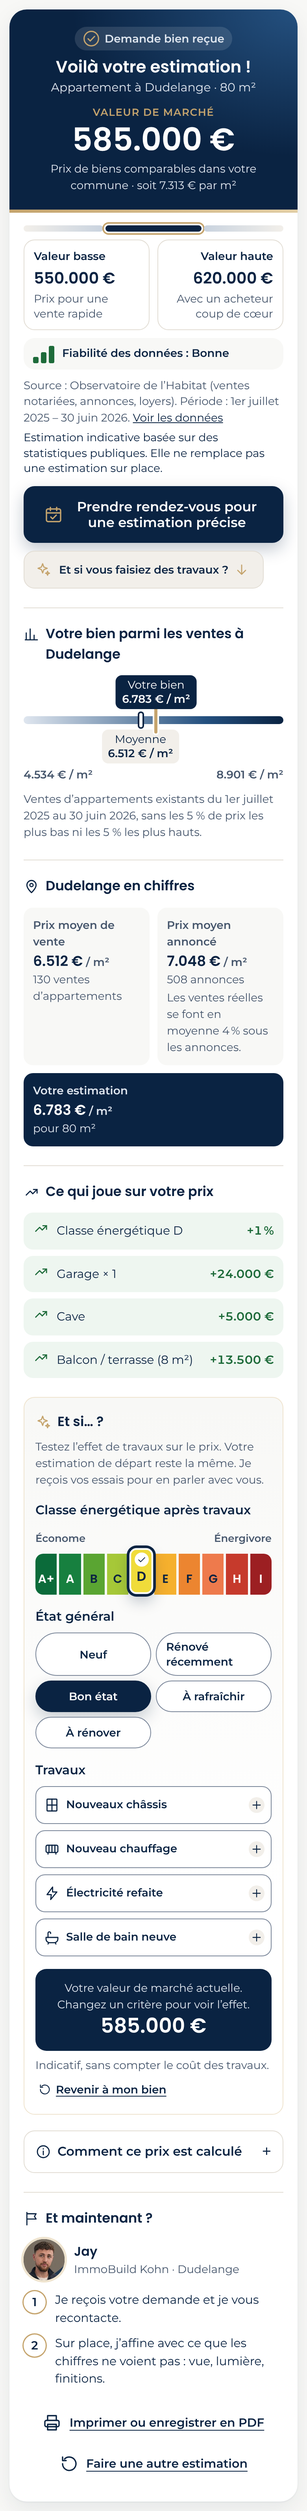
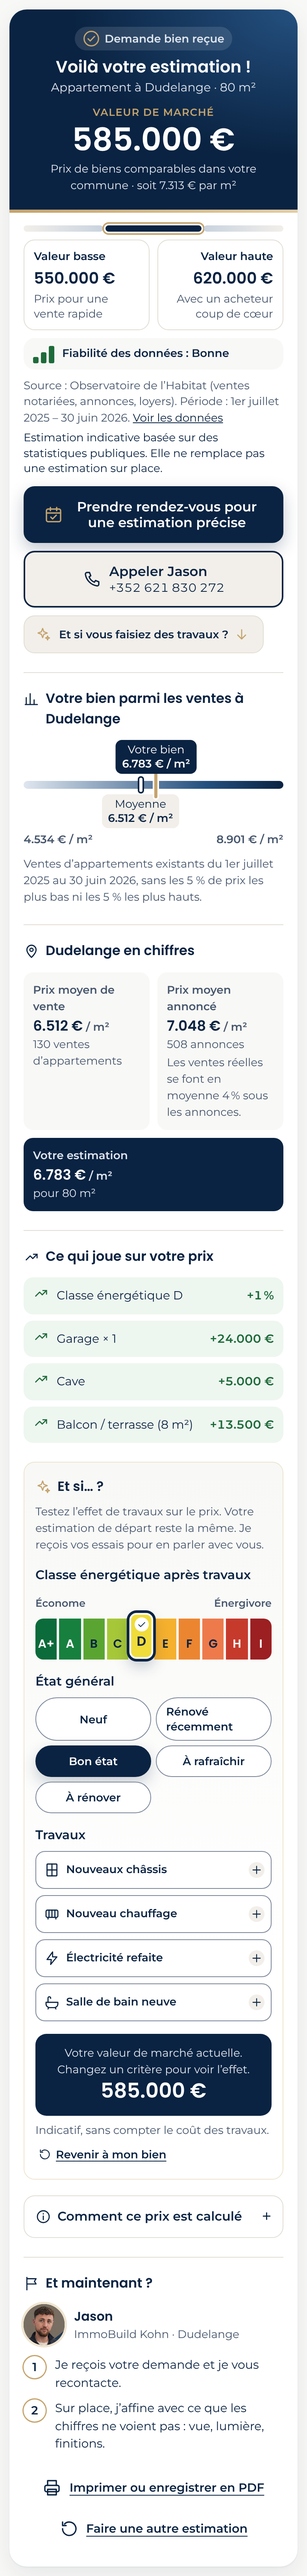
Liens et téléphone réels du site immobuild.lu ; bouton « Appeler Jason » avec icône
- Politique de confidentialité : /politique-de-confidentialite-cookies/ (l'ancienne adresse n'existait pas)
- Téléphone +352 621 830 272 affiché sous le résultat (nom sur une ligne, numéro dessous)
- Mentions « à valider par Jason » dans config.json et params.json

Claude-Session: https://claude.ai/code/session_01846hvutoHPqEEd264myZJw

Changed region(s): [[0.0308, 0.0, 0.9538, 0.9991]]

diff --git a/estimation-widget/src/ui/result.ts b/estimation-widget/src/ui/result.ts
@@ -53,7 +53,7 @@ function agentCard(t: T, o: ResultOptions): string {
 export function renderResult(r: PublicResult, t: T, lang: Lang, opts: ResultOptions | string): string {
   const o: ResultOptions = typeof opts === 'string' ? { contactUrl: opts } : opts;
   const cta = `<a class="btn btn-primary btn-block" href="${esc(o.contactUrl)}" target="_top" rel="noopener">${icon('rdv')}<span>${esc(t('result.cta'))}</span></a>`;
-  const call = o.phone ? `<a class="btn btn-secondary btn-block" href="tel:${esc(o.phone.replace(/\s/g, ''))}" target="_top">${esc(o.phone)}</a>` : '';
+  const call = o.phone ? `<a class="btn btn-secondary btn-block" href="tel:${esc(o.phone.replace(/\s/g, ''))}" target="_top">${icon('telephone')}<span class="call-text"><span>${esc(t('result.call', { name: o.agent?.name ?? '' }).trim())}</span><span class="call-num">${esc(o.phone)}</span></span></a>` : '';
   const actions = `<div class="result-actions">
     <button type="button" class="btn btn-ghost" data-action="print">${icon('imprimer')}<span>${esc(t('result.print'))}</span></button>
     <button type="button" class="btn btn-ghost" data-action="restart">${icon('recommencer')}<span>${esc(t('result.restart'))}</span></button>

diff --git a/estimation-widget/src/ui/icons.ts b/estimation-widget/src/ui/icons.ts
@@ -48,6 +48,7 @@ const P: Record<string, string> = {
   imprimer: '<path d="M6.5 9V3h11v6"/><rect x="3" y="9" width="18" height="8" rx="2"/><path d="M6.5 14h11v7h-11z"/>',
   recommencer: '<path d="M3.5 12a8.5 8.5 0 1 0 2.5-6"/><path d="M3.5 3.5V8H8"/>',
   rdv: '<rect x="3" y="5" width="18" height="16" rx="2"/><path d="M3 10h18M8 3v4M16 3v4"/><path d="m8.5 15.2 2.3 2.3 4.7-4.7"/>',
+  telephone: '<path d="M5.5 3.5h3.2l1.6 4.2-2.1 1.3a11.5 11.5 0 0 0 6.8 6.8l1.3-2.1 4.2 1.6v3.2a2 2 0 0 1-2.2 2A17.5 17.5 0 0 1 3.5 5.7a2 2 0 0 1 2-2.2z"/>',
   info: '<circle cx="12" cy="12" r="9"/><path d="M12 11v5.5M12 7.5v.5"/>',
   fleche: '<path d="M19 12H5M11 6l-6 6 6 6"/>',
   inconnu: '<circle cx="12" cy="12" r="9"/><path d="M9.5 9.5a2.5 2.5 0 1 1 3.5 2.3c-.6.3-1 .9-1 1.6v.6M12 17v.5"/>',

diff --git a/estimation-widget/src/styles.css b/estimation-widget/src/styles.css
@@ -635,3 +635,7 @@ html.is-embedded #app { padding: 4px 2px 24px; }
   .result-actions > * { justify-content: center; white-space: normal; }
 }
 .nowrap { white-space: nowrap; }
+
+/* Bouton « Appeler » : nom sur une ligne, numéro dessous (jamais coupé) */
+.call-text { display: flex; flex-direction: column; align-items: flex-start; line-height: 1.25; text-align: left; }
+.call-num { font-weight: 500; font-size: 0.9375rem; white-space: nowrap; font-variant-numeric: tabular-nums; }
